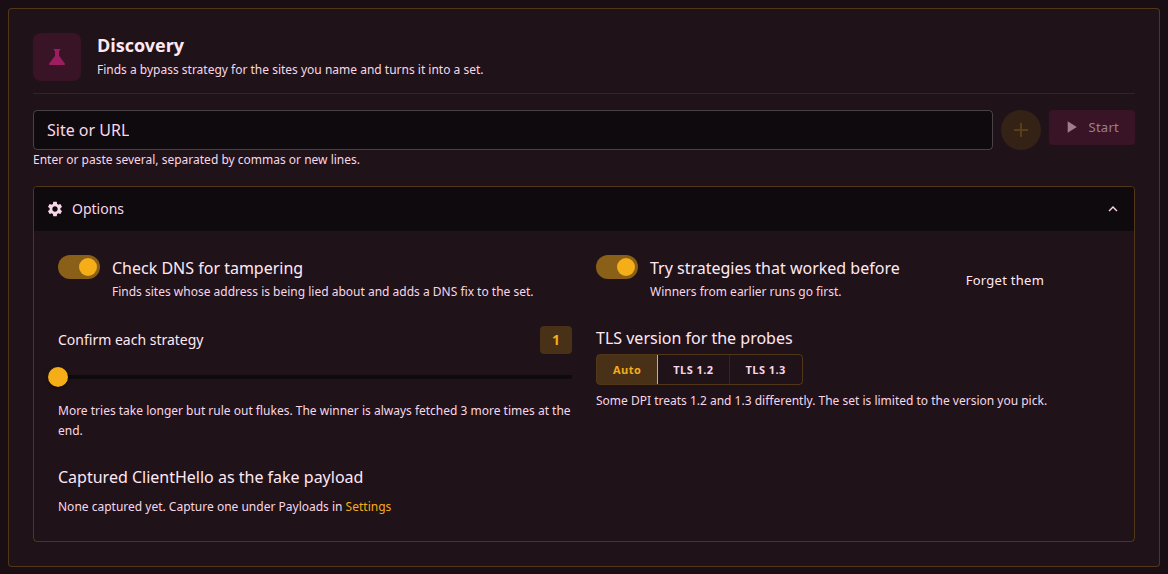
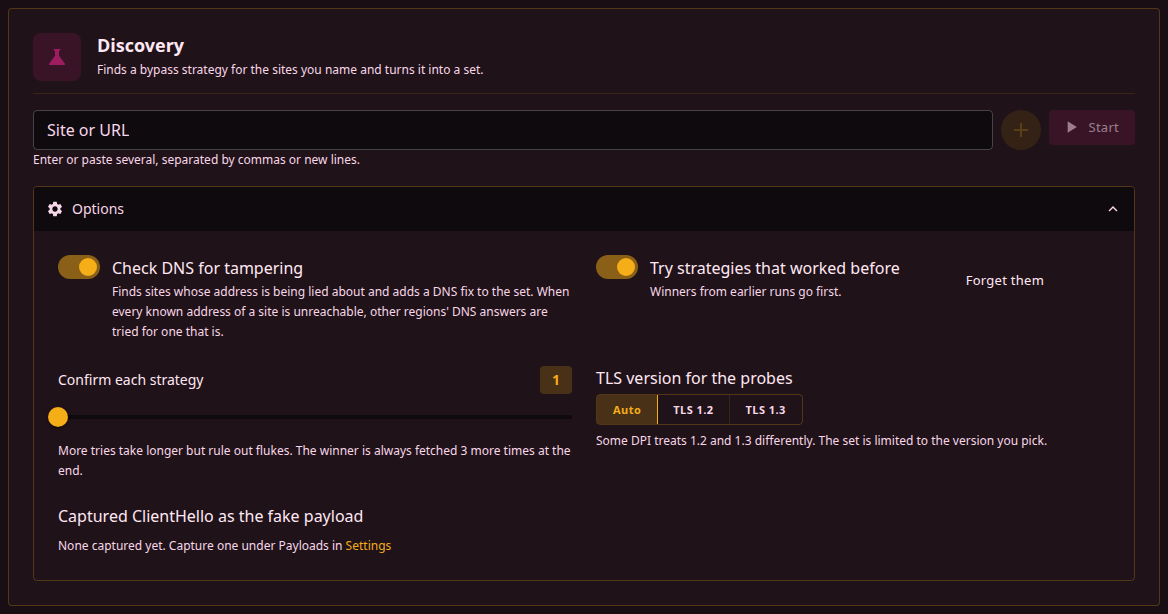
feat(discovery): update Discovery page content and functionality, enhance DNS handling, and improve user instructions

diff --git a/docs/i18n/ru/docusaurus-plugin-content-docs/current/discovery.md b/docs/i18n/ru/docusaurus-plugin-content-docs/current/discovery.md
@@ -19,7 +19,7 @@ title: Дискавери
 
 | Параметр | Действие |
 | --- | --- |
-| **Проверять подмену DNS** | Перед стратегиями каждый сайт разрешается через DNS-серверы из раздела Настройки, Дискавери, а ответы сравниваются с эталоном. Сайт, для которого резолвер отдаёт ложный адрес, получает в свой сет DNS-перенаправление. Выключенный параметр означает доверие системному резолверу. |
+| **Проверять подмену DNS** | Перед стратегиями каждый сайт разрешается через DNS-серверы из раздела Настройки, Дискавери, а ответы сравниваются с эталоном. Сайт, для которого резолвер отдаёт ложный адрес, получает в свой сет DNS-перенаправление, а сайт, все адреса которого недоступны, ищется по [альтернативным адресам](#альтернативные-адреса). Выключенный параметр означает доверие системному резолверу и ни того, ни другого. |
 | **Сначала пробовать стратегии, которые уже срабатывали** | Пресеты, победившие в прошлых запусках, проверяются раньше встроенного списка. **Забыть их** очищает этот список. |
 | **Подтверждать каждую стратегию** | Сколько запросов подряд пресет должен пройти во время поиска, от 1 до 5. Не связано с подтверждением в конце запуска, которое всегда запрашивает победителя ещё три раза. |
 | **Версия TLS для проверок** | Ограничивает запросы TLS 1.2 или 1.3 и ограничивает созданный сет этой версией, поскольку часть DPI обрабатывает их по-разному. |
@@ -30,8 +30,8 @@ title: Дискавери
 
 Запуск проходит шесть этапов, которые показываются шагами, пока он идёт:
 
-1. **DNS**. Каждый сайт разрешается, ответы проверяются, если проверка DNS не выключена.
-2. **Без обхода**. Каждый сайт запрашивается вообще без стратегии. Сайт, который загрузился здесь, получает вердикт «обход не нужен» и дальше в вердикте не участвует, хотя для сравнения его продолжают запрашивать через каждый пресет.
+1. **DNS**. Каждый сайт разрешается, ответы проверяются, если проверка DNS не выключена. Сайт, известные адреса которого его не обслуживают, здесь же проверяется на альтернативные адреса.
+2. **Без обхода**. Каждый сайт запрашивается вообще без стратегии. Сайт, который загрузился здесь через честный ответ резолвера, получает вердикт «обход не нужен» и дальше в поиске не участвует, хотя для сравнения его продолжают запрашивать через каждый пресет. Сайт, который загружается только после исправления DNS-ответа или только через альтернативный адрес, отмечается как найденный с сетом без изменения пакетов.
 3. **Стратегии**. Запомненные победители, затем 18 встроенных стартовых пресетов применяются по одному, и через каждый запрашиваются все сайты.
 4. **Подбор параметров**. Для каждого семейства техник, давшего рабочий пресет, параметры варьируются на сайте, который лучше всего на него откликнулся, а результат проверяется на всех сайтах.
 5. **Комбинации**. Если сработали два семейства или больше, проверяются пресеты, которые их сочетают.
@@ -39,7 +39,7 @@ title: Дискавери
 
 ![Запуск в процессе](/img/discovery/ru/20260905160200.png)
 
-Панель показывает текущий этап, прошедшее время, число проверенных конфигураций и последнюю строку журнала запуска. **Показать журнал** открывает журнал целиком. Число проверок на этапах подбора и комбинаций зависит от того, что нашли первые этапы, поэтому процента на панели нет. По строке на сайт видно, что найдено к этому моменту: стратегия с описанием в одно предложение, число перебранных пресетов или то, что сайт открывается без b4.
+Панель показывает текущий этап, прошедшее время, число проверенных конфигураций и последнюю строку журнала запуска; **Показать журнал** открывает журнал целиком. Полоса под шагами измеряет стартовый проход, где число проверок известно заранее; начиная с подбора параметров она лишь показывает, что запуск продолжается, потому что число проверок на этих этапах зависит от того, что нашли первые. По строке на сайт видно, что найдено к этому моменту: стратегия с описанием в одно предложение, число перебранных пресетов или то, что сайт открывается без b4.
 
 **Остановить и сохранить найденное** завершает запуск раньше. Всё найденное сохраняется и записывается в историю с пометкой «не подтверждена», поскольку этап подтверждения для него не выполнялся. Запуск, начатый [мониторингом доменов](./watchdog) для восстановления сета, показывается так же, но остановить его с этой страницы нельзя.
 
@@ -53,28 +53,42 @@ title: Дискавери
 
 | Вердикт | Значение |
 | --- | --- |
-| **Стратегия найдена** | Хотя бы один пресет открыл сайт. Карточка называет победителя, описывает его одним предложением и перечисляет, что сделает сет. Бейдж говорит, прошло ли подтверждение. |
-| **Обход не нужен** | Сайт открылся без стратегии. Применять нечего: сет для него лишь прогонит трафик через ненужные изменения пакетов. |
-| **Адрес заблокирован** | Соединения со всеми известными адресами сайта обрываются раньше, чем начинается TLS, поэтому стратегия на уровне пакетов не поможет. Такому сайту нужен сет с маршрутизацией через [прокси или VPN](./sets/routing). |
+| **Стратегия найдена** | Что-то открыло сайт: пресет, исправленный DNS-ответ или альтернативный адрес. Карточка называет победителя, описывает его одним предложением и перечисляет, что сделает сет. Бейдж говорит, прошло ли подтверждение. |
+| **Обход не нужен** | Сайт открылся без стратегии по адресу, который отдал его резолвер. Применять нечего: сет для него лишь прогонит трафик через ненужные изменения пакетов. |
+| **Адрес заблокирован** | Соединения со всеми известными адресами сайта обрываются раньше, чем начинается TLS, и DNS-ответы других регионов тоже не дали доступного адреса, поэтому стратегия на уровне пакетов не поможет. Такому сайту нужен сет с маршрутизацией через [прокси или VPN](./sets/routing). |
 | **Ничего не найдено** | Все пресеты не сработали. В журнале видно, как именно не прошёл каждый. Повторный запуск с TLS 1.2 или захваченным ClientHello иногда меняет исход. |
 
-Сайты с одним и тем же пресетом-победителем показываются на одной карточке, поскольку применение создаёт один сет для всех них. Карточка строится по самому сету, с теми же строками, что и на странице сетов: стратегия разделения с параметрами, поддельные пакеты, цели и наличие DNS-перенаправления. Ниже **Подробности** перечисляют остальные сработавшие пресеты, каждый с кнопкой **Взять вместо неё**, число подтверждений и скорость по каждому сайту, а также сколько из проверенных конфигураций открыли страницы.
+Сайты с одним и тем же пресетом-победителем показываются на одной карточке, поскольку применение создаёт один сет для всех них. Карточка строится по самому сету, с теми же строками, что и на странице сетов: стратегия разделения с параметрами, поддельные пакеты, цели и то, что происходит с DNS. Ниже **Сработали ещё N стратегий** перечисляет все остальные пресеты, открывшие сайт, быстрые первыми, каждый с кнопкой **Взять вместо неё**, а за ними число подтверждений и скорость по каждому сайту и сколько из проверенных конфигураций открыли страницы. Победитель - самый быстрый из них по одному запросу, а это шумная мера; пресет из этого списка - столь же законный выбор.
 
 ![Результаты запуска](/img/discovery/ru/20260905160300.png)
 
 ## Применение
 
-**Применить как сет** открывает диалог с построчным превью сета. Название по умолчанию совпадает с первым сайтом, с суффиксом, если запуск был ограничен версией TLS или IP. Для одного сайта совпадение можно сократить до родительского домена, чтобы сет покрывал и поддомены. Если сайт уже числится в другом включённом сете, диалог сообщает об этом: домен из двух включённых сетов обрабатывает тот, что стоит раньше в списке, поэтому сайт переносится в новый сет. Если включённый сет уже использует ту же стратегию, сайты можно добавить в него вместо создания нового.
+**Применить как сет** открывает диалог с построчным превью сета. Предлагаемое название - сайт без префикса и домена верхнего уровня, `instagram` для `www.instagram.com`, с суффиксом, если запуск был ограничен версией TLS или IP. Для одного сайта совпадение можно сократить до родительского домена, чтобы сет покрывал и поддомены. Если сайт уже числится в другом включённом сете, диалог сообщает об этом: домен из двух включённых сетов обрабатывает тот, что стоит раньше в списке, поэтому сайт переносится в новый сет. Если включённый сет уже использует ту же стратегию, сайты можно добавить в него вместо создания нового.
 
-Созданный сет попадает в начало списка и сразу включён. Его цели - названные сайты плюс категории geosite или geoip, которые b4 связывает с ними по встроенной таблице CDN, если соответствующая база установлена. Адреса, узнанные во время запуска, в сет не переносятся, поэтому сет совпадает по имени сервера. DNS-перенаправление включается только для сайта, резолвер которого отдавал ложный адрес.
+Созданный сет попадает в начало списка и сразу включён. Его цели - названные сайты плюс категории geosite или geoip, которые b4 связывает с ними по встроенной таблице CDN, если соответствующая база установлена. Адреса, узнанные во время запуска, в сет не переносятся, поэтому сет совпадает по имени сервера. DNS-перенаправление включается только для сайта, резолвер которого отдавал ложный адрес, а [закрепление адреса](./dns#закреплённые-адреса) - только для сайта, которому понадобился альтернативный адрес.
 
 :::tip
 Запись истории хранит сет, собранный запуском, поэтому результат можно применить позже, не запуская Дискавери заново. Состояние подтверждения сохраняется вместе с ним.
 :::
 
+## Альтернативные адреса
+
+Часть блокировок вовсе не связана с именем домена: резолвер отдаёт адрес, который не принимает ни одного соединения, тогда как тот же сайт отвечает с адресов, выдаваемых клиентам в других местах. Когда все известные адреса сайта не отвечают или эталонные ответы не проходят TLS-рукопожатие, этап DNS спрашивает публичный резолвер через EDNS Client Subnet, какие адреса получают на это имя клиенты примерно из пятисот других сетей /16. Полученные адреса проверяются на TCP-соединение, а самые быстрые из них - на TLS-рукопожатие с именем сайта.
+
+Адрес, завершивший рукопожатие, не попал под блокировку. Во время запуска сайт запрашивается через него, а сет закрепляет имя за этим адресом, чтобы устройства получали в ответ его, а не заблокированный. Если подходят несколько адресов, закрепляются до трёх. Адрес, который принимает соединение, но не рукопожатие, фильтруется по имени, как и остальные, поэтому он используется как цель проверок только когда собственные адреса сайта отвергают соединения вовсе, и стратегии пакетов подбираются уже на нём.
+
+Сет с закреплёнными адресами или собранный для сайта с заблокированными адресами получает включённое обнаружение IP-блокировок с вкладки TCP: закреплённый адрес, переставший отвечать, исключается из DNS-ответов, а когда не осталось ни одного, запрос передаётся резолверу. Список адресов фиксируется на момент запуска; когда блокировка переезжает, [мониторинг доменов](./watchdog) запускает Дискавери для сайта заново.
+
+:::warning
+Проверка с машины, на которой уже работает b4, проходит через его собственные сеты. TLS-проверка, прошедшая там, измеряет обход, а не сеть. Собственные проверки Дискавери минуют сеты, поэтому его вердикт по адресу - сырой; сторонняя утилита на роутере согласится с ним, только пока все сеты, покрывающие сайт, выключены.
+:::
+
 ## История
 
-Хранятся последние сто результатов, по одной записи на сайт; новый запуск для того же сайта заменяет старую запись. Каждая запись показывает вердикт, стратегию словами вместе с именем пресета и время запуска. **Применить** устанавливает сет, собранный запуском для этого сайта; два сайта из одного запуска с общим пресетом-победителем делят один сет и применяются вместе. **Повторить** начинает новый запуск для сайта; запись можно удалить отдельно или очистить всю историю.
+Хранятся последние сто результатов, по одной записи на сайт; новый запуск для того же сайта заменяет старую запись. Каждая запись показывает вердикт, пресет-победитель с семейством техник, описание по наведению и время запуска. Сайты из одного запуска с общим пресетом-победителем делят один сет; каждый из них сообщает об этом, а применение любого устанавливает сет для всех, с названием по тому сайту, на котором нажали. **Применить** устанавливает сет, собранный запуском, кнопка с круговой стрелкой начинает новый запуск для сайта; запись можно удалить отдельно или очистить всю историю.
+
+Журнал последнего запуска остаётся доступным по кнопке **Журнал последнего запуска** и переживает перезапуск сервиса; из диалога журнала его можно скачать текстовым файлом, как во время запуска, так и после.
 
 ![История Дискавери](/img/discovery/ru/20260905160400.png)
 

diff --git a/docs/docs/discovery.md b/docs/docs/discovery.md
@@ -19,7 +19,7 @@ The options under the field change how the run probes, not what it looks for:
 
 | Option | Effect |
 | --- | --- |
-| **Check DNS for tampering** | Before the strategies, each site is resolved through the DNS servers listed under Settings, Discovery, and the answers are compared with a reference. A site whose resolver lies about its address gets a DNS redirect written into its set. Off, the run trusts the system resolver. |
+| **Check DNS for tampering** | Before the strategies, each site is resolved through the DNS servers listed under Settings, Discovery, and the answers are compared with a reference. A site whose resolver lies about its address gets a DNS redirect written into its set, and a site whose addresses are all unreachable is searched for [alternative addresses](#alternative-addresses). Off, the run trusts the system resolver and does neither. |
 | **Try strategies that worked before** | Presets that won an earlier run are tried before the built-in list. **Forget them** drops that list. |
 | **Confirm each strategy** | How many consecutive fetches a preset has to pass during the search, 1 to 5. Independent of the confirmation pass at the end of the run, which always fetches the winner three more times. |
 | **TLS version for the probes** | Limits the fetches to TLS 1.2 or 1.3, and limits the created set to that version, since some DPI treats the two differently. |
@@ -30,8 +30,8 @@ The options under the field change how the run probes, not what it looks for:
 
 A run passes through six phases, shown as steps while it is in progress:
 
-1. **DNS**. Each site is resolved and its answers checked, unless the DNS check is off.
-2. **Without bypass**. Each site is fetched with no strategy at all. A site that loads here is reported as needing no bypass and takes no further part in the verdict, though it is still fetched through every preset for comparison.
+1. **DNS**. Each site is resolved and its answers checked, unless the DNS check is off. A site whose known addresses do not serve it is also scanned for alternative addresses here.
+2. **Without bypass**. Each site is fetched with no strategy at all. A site that loads here through an honest answer is reported as needing no bypass and takes no further part in the search, though it is still fetched through every preset for comparison. A site that loads only once its DNS answer is corrected, or only through an alternative address, is reported as found with a set that changes no packets.
 3. **Strategies**. The remembered winners, then the 18 built-in opening presets, are applied one at a time and every site is fetched through each.
 4. **Tuning**. For every technique family that produced a working preset, its parameters are varied on the site that responded best to it, and the result is checked against all sites.
 5. **Combining**. When two or more families worked, presets that combine them are tried.
@@ -39,7 +39,7 @@ A run passes through six phases, shown as steps while it is in progress:
 
 ![A run in progress](/img/discovery/20260905160200.png)
 
-The panel shows the current phase, the time elapsed, the number of configurations tested so far, and the last line of the run's log. **Show log** opens the whole log. The number of tests in the tuning and combining phases depends on what the first phases found, so the panel carries no percentage. One row per site says what has been found so far: a strategy with a one-sentence description, a count of presets tried, or that the site loads without b4.
+The panel shows the current phase, the time elapsed, the number of configurations tested so far, and the last line of the run's log; **Show log** opens the whole log. The bar under the steps measures the opening pass, where the number of tests is known in advance; from the tuning phase on it only signals that the run is still going, because how many tests those phases need depends on what the first phases found. One row per site says what has been found so far: a strategy with a one-sentence description, a count of presets tried, or that the site loads without b4.
 
 **Stop and keep results** ends the run early. Whatever has been found is kept and written to history, marked as not confirmed, because the confirmation phase never ran for it. A run the [watchdog](./watchdog) started to heal a set is shown the same way but cannot be stopped from this page.
 
@@ -53,28 +53,42 @@ Every site the run was given gets one verdict:
 
 | Verdict | Meaning |
 | --- | --- |
-| **Strategy found** | At least one preset made the site load. The card names the winner, describes it in a sentence, and lists what the set would do. The badge says whether the confirmation pass succeeded. |
-| **No bypass needed** | The site loaded without any strategy. There is nothing to apply, and a set for it would only push its traffic through packet changes it does not need. |
-| **Address blocked** | Connections to every known address of the site fail before any TLS is spoken, so no packet strategy can help. Such a site needs a set routed through a [proxy or VPN](./sets/routing). |
+| **Strategy found** | Something made the site load: a preset, a corrected DNS answer, or an alternative address. The card names the winner, describes it in a sentence, and lists what the set would do. The badge says whether the confirmation pass succeeded. |
+| **No bypass needed** | The site loaded without any strategy through the address its resolver gave. There is nothing to apply, and a set for it would only push its traffic through packet changes it does not need. |
+| **Address blocked** | Connections to every known address of the site fail before any TLS is spoken, and no other region's DNS answer reached it either, so no packet strategy can help. Such a site needs a set routed through a [proxy or VPN](./sets/routing). |
 | **Nothing found** | Every preset failed. The log shows how each one failed. Running again with TLS 1.2 or a captured ClientHello sometimes changes the outcome. |
 
-Sites that share one winning preset are shown together on one card, since applying it creates a single set targeting all of them. The card is built from the set itself, with the same rows the Sets page shows: the split strategy and its parameters, the fake packets, the targets, and whether a DNS redirect is included. Below it, **Details** lists the other presets that also worked, each with **Use instead**, the confirmation count and speed per site, and how many of the tested configurations loaded the pages.
+Sites that share one winning preset are shown together on one card, since applying it creates a single set targeting all of them. The card is built from the set itself, with the same rows the Sets page shows: the split strategy and its parameters, the fake packets, the targets, and what happens to DNS. Below it, **N other strategies worked** lists every other preset that loaded the site, fastest first, each with **Use instead**, followed by the confirmation count and speed per site and how many of the tested configurations loaded the pages. The winner is the fastest of them on a single fetch, which is a noisy measure; a preset from that list is as valid a choice.
 
 ![Results of a run](/img/discovery/20260905160300.png)
 
 ## Applying
 
-**Apply as a set** opens a dialog with the set previewed row by row. The name defaults to the first site, with a suffix when the run was limited to a TLS or IP version. For a single site, the match can be shortened to a parent domain so that the set also covers subdomains. When a site is already listed in another enabled set, the dialog says so: a domain listed in two enabled sets is handled by whichever comes first in the list, so the site is moved into the new set. When an enabled set already uses the same strategy, the sites can be added to it instead of creating a new one.
+**Apply as a set** opens a dialog with the set previewed row by row. The suggested name is the site without its prefix and its top-level domain, `instagram` for `www.instagram.com`, with a suffix when the run was limited to a TLS or IP version. For a single site, the match can be shortened to a parent domain so that the set also covers subdomains. When a site is already listed in another enabled set, the dialog says so: a domain listed in two enabled sets is handled by whichever comes first in the list, so the site is moved into the new set. When an enabled set already uses the same strategy, the sites can be added to it instead of creating a new one.
 
-The created set goes to the top of the list and is enabled at once. Its targets are the sites named, plus any geosite or geoip category b4 associates with them through its built-in CDN table, when the corresponding database is installed. The addresses learned during the run are not carried over, so the set matches by server name. A DNS redirect is included only for a site whose resolver was found to be lying.
+The created set goes to the top of the list and is enabled at once. Its targets are the sites named, plus any geosite or geoip category b4 associates with them through its built-in CDN table, when the corresponding database is installed. The addresses learned during the run are not carried over, so the set matches by server name. A DNS redirect is included only for a site whose resolver was found to be lying, and a [pin](./dns#pinned-addresses) only for a site that needed an alternative address.
 
 :::tip
 A history entry keeps the set the run built, so a result can be applied later without running Discovery again. The confirmation state travels with it.
 :::
 
+## Alternative addresses
+
+Some blocks are not about the domain name at all: the resolver hands out an address that refuses every connection, while the same site answers from addresses handed out to clients elsewhere. When every known address of a site fails, or the reference answers fail the TLS handshake, the DNS phase asks a public resolver, through EDNS Client Subnet, how clients in some five hundred other /16 networks are answered for that name. The addresses that come back are checked for a TCP connection, then the fastest of them for a TLS handshake with the site's name.
+
+An address that completes the handshake is one the block does not cover. The site is fetched through it during the run, and the set pins the name to it, so that devices are answered with that address instead of the blocked one. When several addresses qualify, up to three are pinned. An address that accepts the connection but not the handshake is filtered by name like any other, so it is used as a probe target only when the site's own addresses refuse connections outright, and the packet strategies are searched on it.
+
+A set with pins, or built for a site whose addresses were blocked, gets the IP block detection of its TCP tab switched on: a pinned address that stops answering is left out of DNS answers, and when all of them are gone the query is passed to the resolver. The list of addresses is fixed at the time of the run; when the block moves, the [watchdog](./watchdog) runs Discovery again for the site.
+
+:::warning
+A probe made from a machine where b4 is already running goes through b4's own sets. A TLS check that passes there measures the bypass, not the network. Discovery's own probes skip the sets, so its verdict on an address is the raw one; a third-party tool run on the router only agrees with it while every set covering the site is disabled.
+:::
+
 ## History
 
-The last hundred results are kept, one entry per site, the newest run for a site replacing the older one. Every entry shows its verdict, the strategy in words with the preset name, and when it ran. **Apply** installs the set the run built for that site; two sites from one run that won with the same preset share one set and are applied together. **Run again** starts a new run for the site, and an entry can be removed on its own or the whole history cleared.
+The last hundred results are kept, one entry per site, the newest run for a site replacing the older one. Every entry shows its verdict, the winning preset with its technique family, the sentence describing it on hover, and when it ran. Sites from one run that won with the same preset share one set; each of them says so, and applying either installs the set for all of them, named after the site that was clicked. **Apply** installs the set the run built, the refresh button starts a new run for the site, and an entry can be removed on its own or the whole history cleared.
+
+The log of the last run stays available under **Last run log** and survives a restart of the service; the log dialog can also download it as a text file, during a run or after it.
 
 ![Discovery history](/img/discovery/20260905160400.png)
 

diff --git a/changelog_ru.md b/changelog_ru.md
@@ -2,7 +2,7 @@
 
 ## [1.8x.x] - 2026-09-xx
 
-- ИЗМЕНЕНО: **Страница Дискавери перестроена вокруг введённых сайтов** - результаты и история перечисляют сайты в том порядке, в каком они введены, по одной карточке с понятным вердиктом на сайт, а найденная стратегия описана предложением и показана с теми же строками разделения, фейков, целей и DNS, что и на странице сетов, до того как будет применена. Во время запуска видны этап, число проверенных конфигураций и живая строка журнала вместо процента, остановка сохраняет найденное и помечает его неподтверждённым, а параметры названы по тому, что они делают.
+- ИЗМЕНЕНО: **Страница Дискавери перестроена вокруг введённых сайтов** - результаты и история перечисляют сайты в том порядке, в каком они введены, по одной карточке с понятным вердиктом на сайт, а найденная стратегия описана предложением и показана с теми же строками разделения, фейков, целей и DNS, что и на странице сетов, до того как будет применена. Во время запуска видны этап, число проверенных конфигураций и живая строка журнала вместо процента, остановка сохраняет найденное и помечает его неподтверждённым, параметры названы по тому, что они делают, а журнал последнего запуска остаётся доступным после перезапуска и скачивается файлом.
 - ДОБАВЛЕНО: **Дискавери ищет адреса, которые не попали под блокировку, и может починить сайт одним DNS** - когда известные адреса сайта недоступны или не проходят TLS-рукопожатие, запуск спрашивает публичный резолвер, какие адреса получают клиенты примерно из пятисот других регионов, проверяет, какие из них принимают соединение и завершают рукопожатие для сайта, и закрепляет сайт за ними в собранном сете, включив обнаружение мёртвых адресов, чтобы переставший отвечать адрес пропускался. Сайт, который открывается через честный DNS-ответ или через такой адрес, отмечается как найденный с сетом без изменения пакетов, тогда как раньше он читался как не нуждающийся в обходе и сета не получал.
 - ИСПРАВЛЕНО: **Дискавери могло применить сет, не совпадающий с найденным, а остановленный запуск оставлял страницу устаревшей до перезагрузки** - остановка прекращала опрос до того, как запуск записывал историю, альтернативный пресет нёс geo-категории всех остальных сайтов запуска и DNS-перенаправление, если хоть один из них выглядел подменённым, история применяла сет самой быстрой записи ко всем сайтам семейства техник под именем семейства, а никогда не блокировавшийся сайт читался как найденный, пока запомненные победители проверялись раньше обычного запроса.
 - ИСПРАВЛЕНО: **Прокси-сет, совпадающий с любым адресом, отрезал привязанное к нему устройство от сети, а удаление адреса из целей ничего не возвращало** - правила перехвата выбирают пакет только по адресу назначения, поэтому DNS-запросы устройства к роутеру, продление аренды DHCP и обращения к веб-интерфейсу тоже уходили на вышестоящий прокси, сет без фильтра по устройствам в свою очередь помечал для прокси ответы самого роутера совпавшему клиенту, а адрес, убранный из целей сета, оставался в наборе ядра до отключения сета или перезапуска сервиса. [#322](https://github.com/DanielLavrushin/b4/issues/322)

diff --git a/changelog.md b/changelog.md
@@ -2,7 +2,7 @@
 
 ## [1.8x.x] - 2026-09-xx
 
-- CHANGED: **The Discovery page is rebuilt around the sites typed into it** - results and history list the sites in the order given, with one card and a plain-words verdict per site, and a found strategy is described in a sentence and shown with the same split, fake, target and DNS rows as the Sets page before it is applied. A run shows its phase, the number of configurations tested and the live log line instead of a percentage, Stop keeps what was found and marks it unconfirmed, and the options are named by what they do.
+- CHANGED: **The Discovery page is rebuilt around the sites typed into it** - results and history list the sites in the order given, with one card and a plain-words verdict per site, and a found strategy is described in a sentence and shown with the same split, fake, target and DNS rows as the Sets page before it is applied. A run shows its phase, the number of configurations tested and the live log line instead of a percentage, Stop keeps what was found and marks it unconfirmed, the options are named by what they do, and the log of the last run stays available after a restart and can be downloaded.
 - ADDED: **Discovery looks for addresses the block does not cover, and can fix a site by DNS alone** - when a site's known addresses are unreachable or refuse the TLS handshake, the run asks a public resolver how clients in some five hundred other regions are answered, checks which of those addresses connect and complete a handshake for the site, and pins the site to them in the set it builds, with dead-address detection switched on so a pin that stops answering is skipped. A site that loads through an honest DNS answer or through such an address is reported as found with a set that changes no packets, where before it read as needing no bypass and got no set at all.
 - FIXED: **Discovery could apply a set that did not match what it had found, and a stopped run left the page stale until it was reloaded** - stopping halted the polling before the run had written its history, an alternate preset carried the geo categories of every other site in the run and the DNS redirect if any of them looked poisoned, the history applied the fastest entry's set to every site of a technique family under the family's name, and a site that was never blocked read as found while the remembered winners were tried ahead of the plain fetch.
 - FIXED: **A proxy set that matched every address cut the device it was bound to off the network, and taking the address back out did not bring it back** - the diversion rules pick a packet by its destination alone, so the device's DNS queries to the router, its DHCP renewals and its visits to the web interface went to the upstream proxy as well, a set without a device filter marked the router's own answers to a matched client for the proxy in turn, and an address removed from a set's targets stayed in the kernel set until the set was disabled or the service restarted. [#322](https://github.com/DanielLavrushin/b4/issues/322)

diff --git a/readme.md b/readme.md
@@ -78,7 +78,7 @@ Then open `http://<device-ip>:7000`.
 
 ## First run
 
-1. Open the web UI, go to **Discovery**, type a blocked domain and press **Start search**. Takes 1-10 minutes.
+1. Open the web UI, go to **Discovery**, type a blocked site and press **Start**. Takes 1-10 minutes.
 2. On a successful result click **Use this configuration**, then **Create a new set**.
 3. Open the site. On the **Traffic** page, connections to that domain now show the set name.
 
@@ -201,7 +201,7 @@ Docs: [MTProto / Telegram](https://docs.b4core.app/docs/mtproto)
 
 ## Discovery, Watchdog, DPI Detector
 
-**Discovery** tests bypass strategies against your real network on an isolated queue, tunes the parameters of whatever works, and checks for DNS poisoning and IP-level blocks along the way. Results apply as sets without a restart.
+**Discovery** tests bypass strategies against your real network on an isolated queue, tunes the parameters of whatever works, and checks for DNS poisoning and IP-level blocks along the way, asking other regions' DNS answers for an address the block does not cover. Results apply as sets without a restart, and the set is previewed before it is created.
 
 **Watchdog** fetches the domains you list periodically. After enough consecutive failures it re-runs Discovery for that domain, verifies the result, and rolls back if it does not hold. Disabled by default.
 
@@ -335,7 +335,7 @@ make help           # all targets
 
 <https://docs.b4core.app/> · [Русская версия](https://docs.b4core.app/ru/)
 
-A few English pages (Discovery, DPI Detector, Connections, Logs and the Advanced section) are still being translated. Use the language switcher for the Russian originals.
+A few English pages (DPI Detector, Connections, Logs and the Advanced section) are still being translated. Use the language switcher for the Russian originals.
 
 ## Contributing
 
